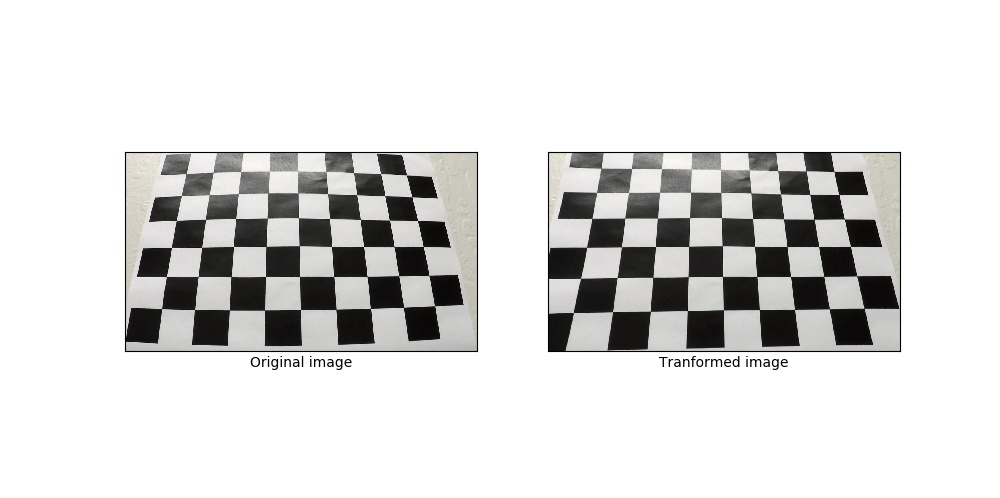
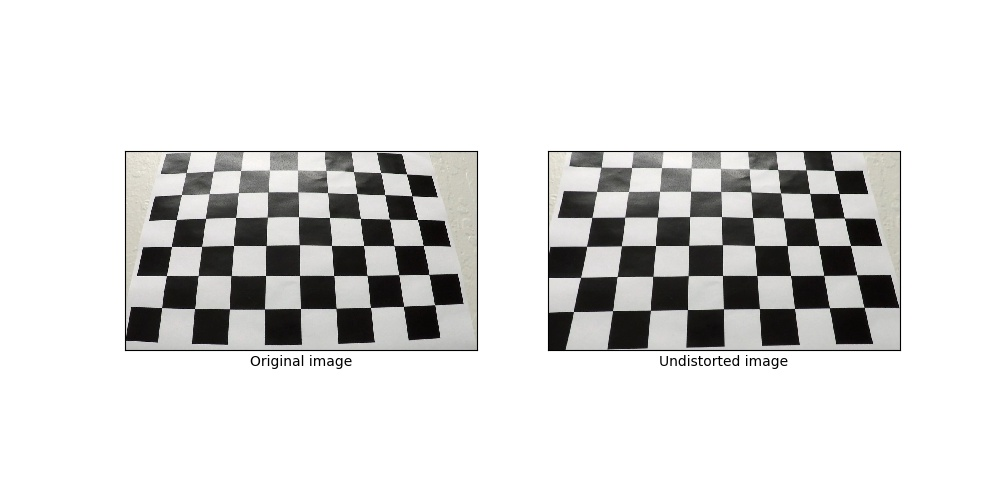
Used undistorted image for birds eye transform Refactored classes. Should use free functions... Added new output images

diff --git a/project_tests.py b/project_tests.py
@@ -1,40 +1,45 @@
 import unittest
 import project
 
-def draw_before_after(image_before, image_after, figsize=(10,5)):
-    project.plt.figure(figsize=figsize)
-    project.plt.subplot(1, 2, 1)
-    project.plt.imshow(image_before)
-    project.plt.xlabel('Original image')
-    project.plt.xticks([], [])
-    project.plt.yticks([], [])
-
-    project.plt.subplot(1, 2, 2)
-    project.plt.imshow(image_after)
-    project.plt.xlabel('Transformed image')
-    project.plt.xticks([], [])
-    project.plt.yticks([], [])
-    project.plt.show()
-
 class TestImageTransform(unittest.TestCase):
     cam_cal = None
-    birds_eye = None
+    birds_eye_view = None
     def __init__(self, *args, **kwargs):
         super(TestImageTransform, self).__init__(*args, **kwargs)
         self.cam_cal = project.CameraCalibration()
-        self.birds_eye = project.BirdsEyeView()
+        self.birds_eye_view = project.BirdsEyeView(self.cam_cal)
+
+    def draw_before_after(self,
+                          image_before, 
+                          image_after, 
+                          txt_before='Original image',
+                          txt_after='Transformed image',                      
+                          figsize=(10,5)):
+        project.plt.figure(figsize=figsize)
+        project.plt.subplot(1, 2, 1)
+        project.plt.imshow(image_before)
+        project.plt.xlabel(txt_before)
+        project.plt.xticks([], [])
+        project.plt.yticks([], [])
+
+        project.plt.subplot(1, 2, 2)
+        project.plt.imshow(image_after)
+        project.plt.xlabel(txt_after)
+        project.plt.xticks([], [])
+        project.plt.yticks([], [])
+        project.plt.show()
 
     def images_should_be_undistorted(self, image_file):
         image = project.mpimage.imread(image_file)        
         undist_image = self.cam_cal.undistort(image)
-        draw_before_after(image, undist_image)
-        return image, undist_image
+        self.draw_before_after(image, undist_image, txt_after='Undistorted image')
+        #return image, undist_image
         
     def images_should_be_transformed_to_birds_eye_perspective(self, image_file):
         image = project.mpimage.imread(image_file)
-        p_image = self.birds_eye.transform(image)
-        draw_before_after(image, p_image)
-        return image, p_image    
+        p_image = self.birds_eye_view.transform(self.cam_cal.undistort(image))
+        self.draw_before_after(image, p_image, txt_after='Birds eye perspective')
+        #return image, p_image    
 
 #if __name__ == '__main__':
 #    test = TestImageTransform()

diff --git a/project.py b/project.py
@@ -25,13 +25,16 @@ class CameraCalibration:
     cam_dst = None
     nx = None
     ny = None
-    def __init__(self, *args, **kwargs):
-        self.cam_mtx, self.cam_dst, self.nx, self.ny = self.__calibrate_camera_from_data()
 
+    def __init__(self):
+        self.cam_mtx, self.cam_dst, self.nx, self.ny = self.__calibrate_camera_from_data()
+        
     def __calibrate_camera_from_data(self):
-        cal_images = glob.glob('camera_cal/calibration*.jpg')
         nx, ny = 9, 6
-        cam_mtx, cam_dst = self.__calibrate_camera(cal_images, nx, ny)
+        cam_mtx, cam_dst = self.__calibrate_camera(\
+            cal_images=glob.glob('camera_cal/calibration*.jpg'),
+            nx=nx, 
+            ny=ny)
         return cam_mtx, cam_dst, nx, ny
 
     def __calibrate_camera(self, cal_images, nx, ny):
@@ -69,11 +72,15 @@ class BirdsEyeView:
     src = None
     dst = None
     p_mat = None
-    def __init__(self):
-        ref_image = mpimage.imread('test_images/straight_lines1.jpg')
-        self.p_mat, self.src, self.dst = self.__birds_eye_perspective(ref_image)
 
-    def __birds_eye_perspective(self, image):
+    def __init__(self, cam_cal):
+        self.p_mat, self.src, self.dst = self.__birds_eye_perspective_from_data(cam_cal)
+
+    def __birds_eye_perspective_from_data(self, cam_cal):
+        ref_image = mpimage.imread('test_images/straight_lines1.jpg')
+        return self.__calculate_birds_eye_perspective(cam_cal.undistort(ref_image))
+
+    def __calculate_birds_eye_perspective(self, image):
         """Calculate perspective transform for a road image from the test set 
         """
         # define source and destination points for transform
@@ -97,3 +104,8 @@ class BirdsEyeView:
         # Warp the image using OpenCV warpPerspective()
         w, h = image.shape[1], image.shape[0]
         return cv2.warpPerspective(image, self.p_mat, (w, h))
+
+class ColorSpaceTransform:
+    def __init__(self):
+        return
+
